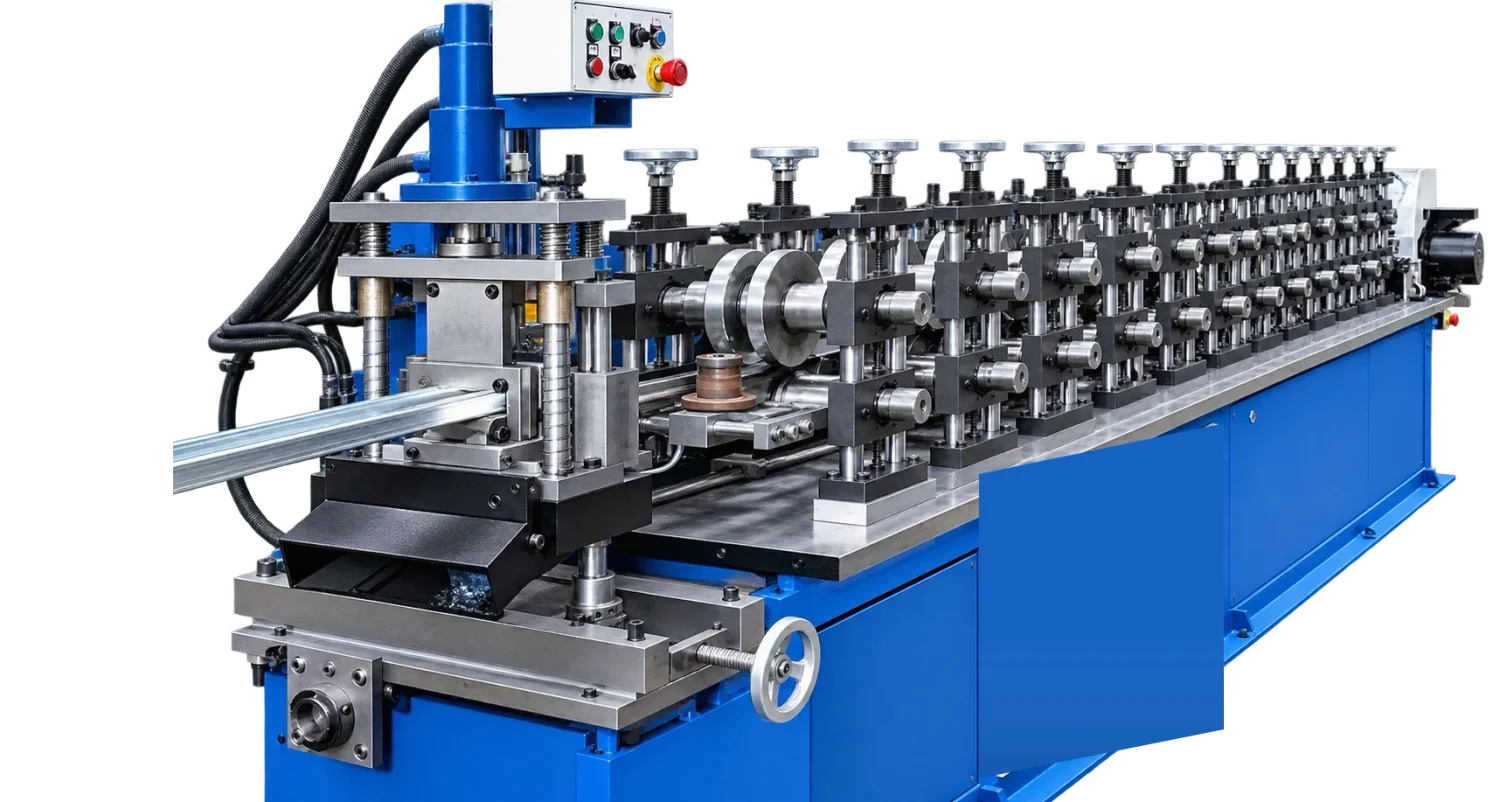
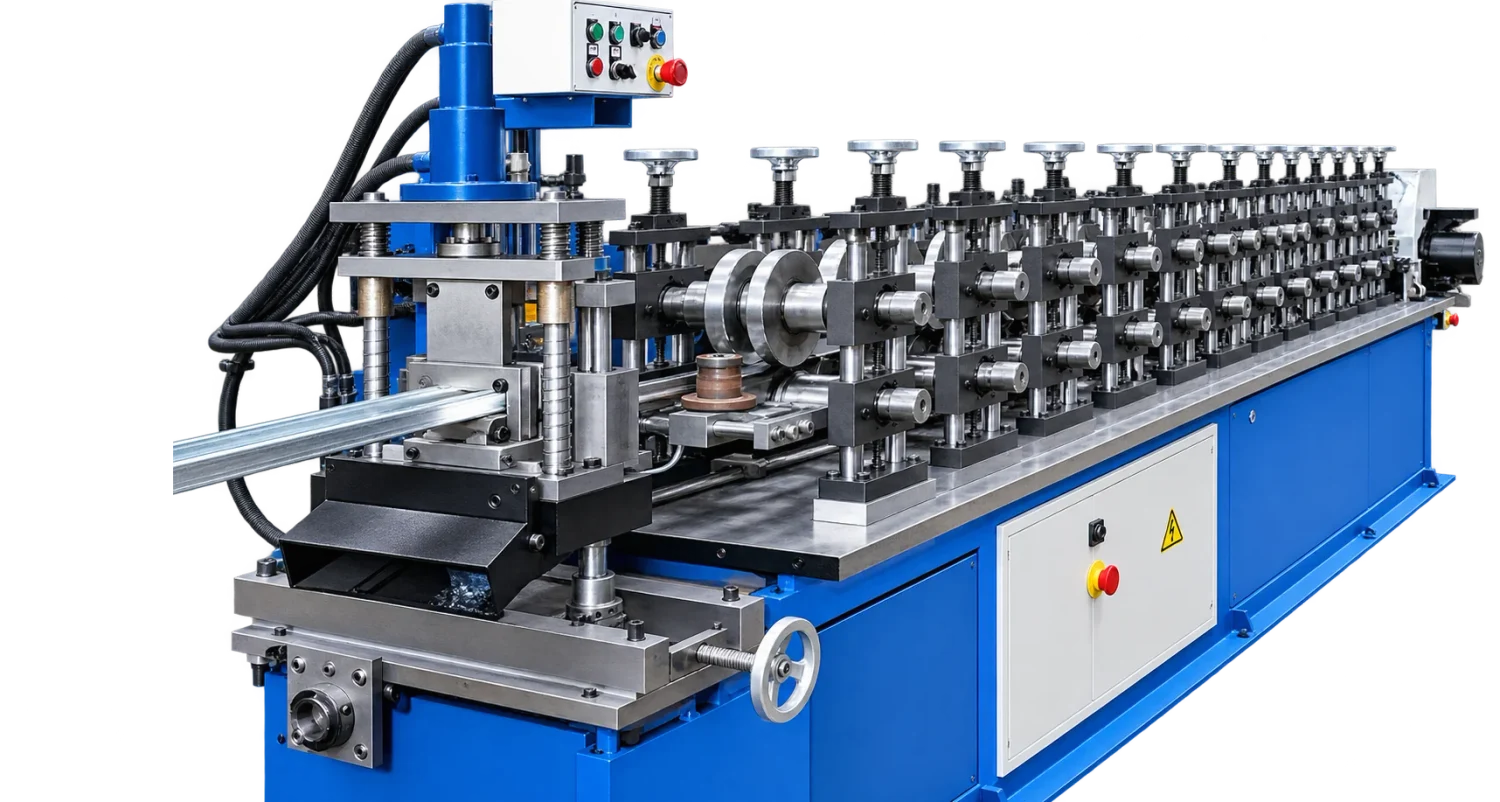
Возвращён электрощиток на станке; блок производства выровнен по центру

Changed region(s): [[0.644, 0.5299, 0.828, 0.9663]]

diff --git a/index.html b/index.html
@@ -217,6 +217,10 @@ p{margin:0}
 .prod-list li{display:flex;gap:11px;align-items:flex-start;font-size:15px;color:#e4e8ee}
 .prod-list svg{width:19px;height:19px;fill:var(--accent-on-dark);flex-shrink:0;margin-top:2px}
 .prod .btn{margin-top:32px}
+/* no photo beside it any more, so the whole block sits centred */
+.prod-in>div{text-align:center}
+.prod p{margin-left:auto;margin-right:auto}
+.prod-list{width:fit-content;margin-left:auto;margin-right:auto;text-align:left}
 
 /* ---------- size table ---------- */
 .tinted{background:var(--bg-2);border-top:1px solid var(--line);border-bottom:1px solid var(--line)}
